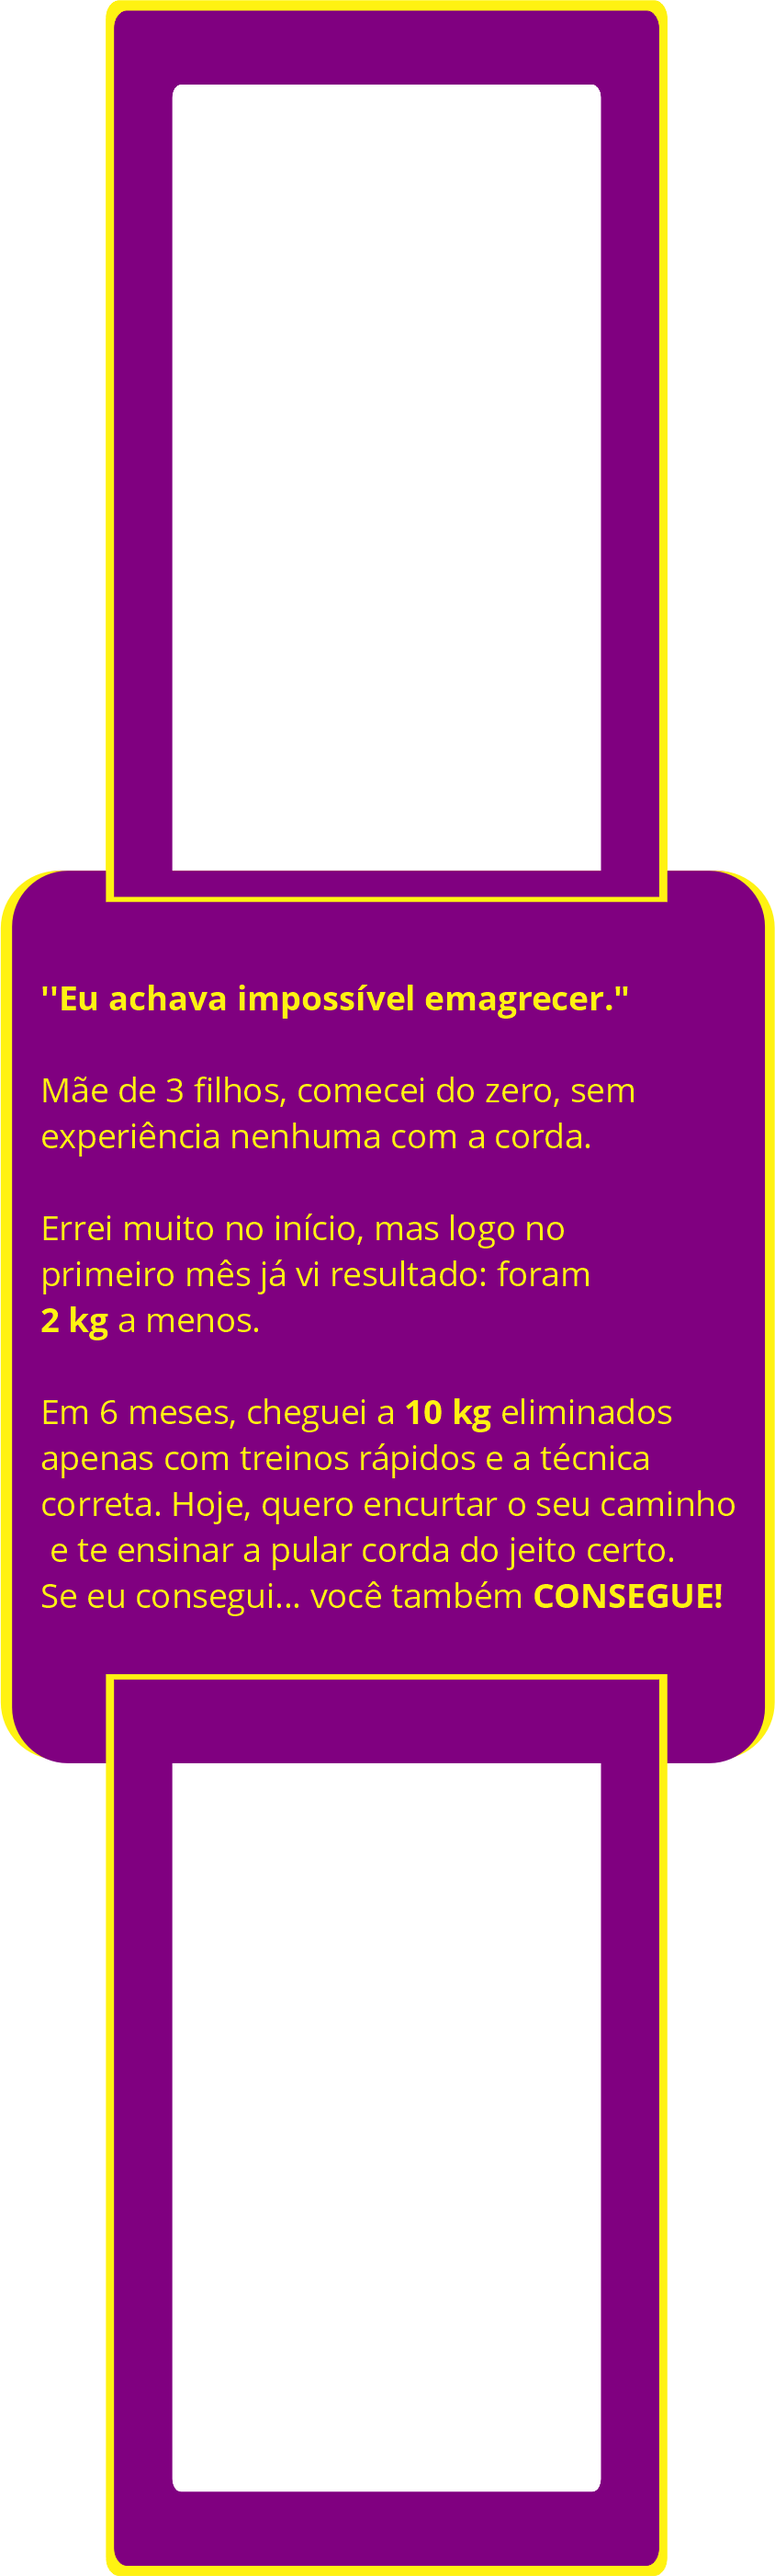
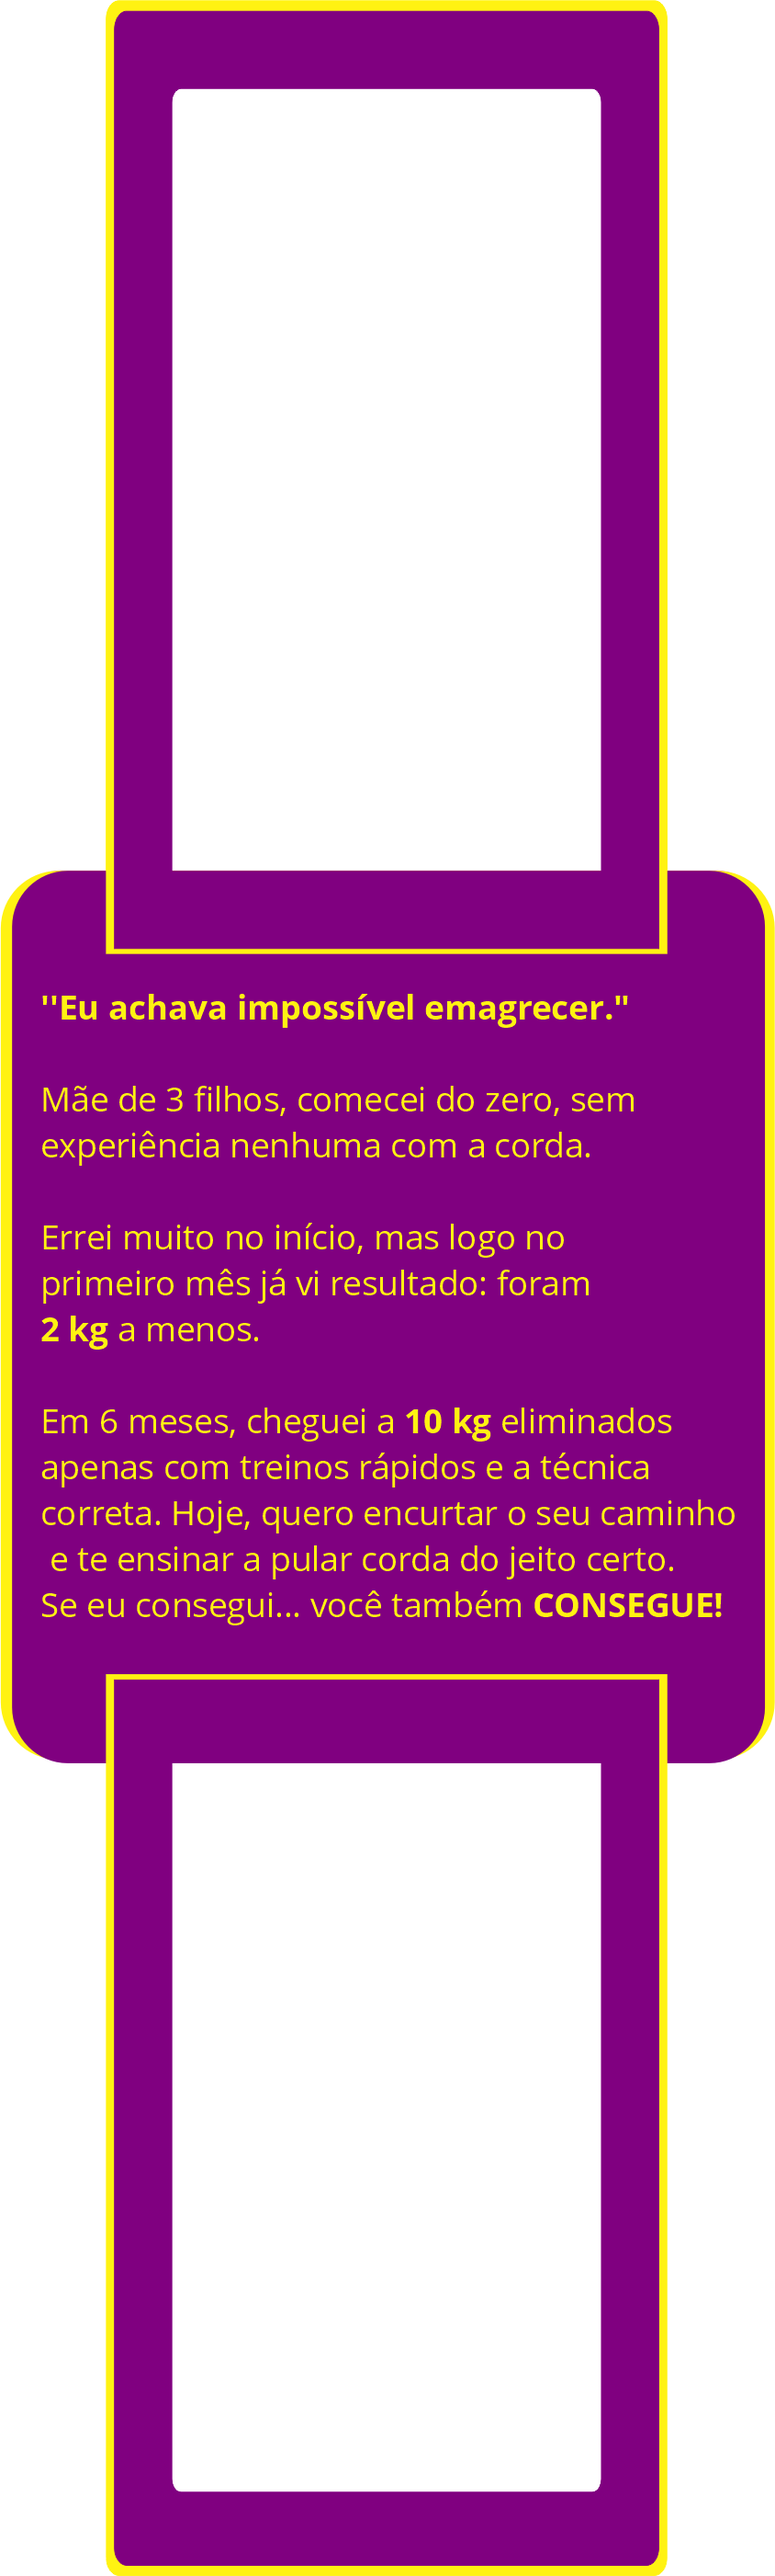
upgrade

Changed region(s): [[0.0308, 0.3415, 0.8934, 0.652], [0.9242, 0.5589, 0.955, 0.5899]]

diff --git a/index.html b/index.html
@@ -41,7 +41,7 @@
                 <img src="https://ariovaldojm.github.io/transforme/images/image_3_mobile.png" alt="Transforma Corda com Gabi" width="250px">
             </div>
             <div class="card-2">
-                <img src="../images/image_4_mobile.png" alt="Transforma Corda com Gabi" width="250px">
+                <img src="https://ariovaldojm.github.io/transforme/images/image_4_mobile.png" alt="Transforma Corda com Gabi" width="250px">
                 <div class="emoji-card-2">
                     ✅
                 </div>

diff --git a/css/style.css b/css/style.css
@@ -265,12 +265,12 @@
     }
     .bg-4 {
         position: absolute;
-        top:0;
+        top:-1px;
         left: 0;
 
         
         width: 100%;
-        height: 690px;
+        height: 470px;
 
         display: flex;              
         justify-content: center;
@@ -280,7 +280,7 @@
     }
     .bg-4-first-layer {
         position: absolute;
-        top: 0;
+        top: 1px;
         left: 0;
 
         width: 100%;
